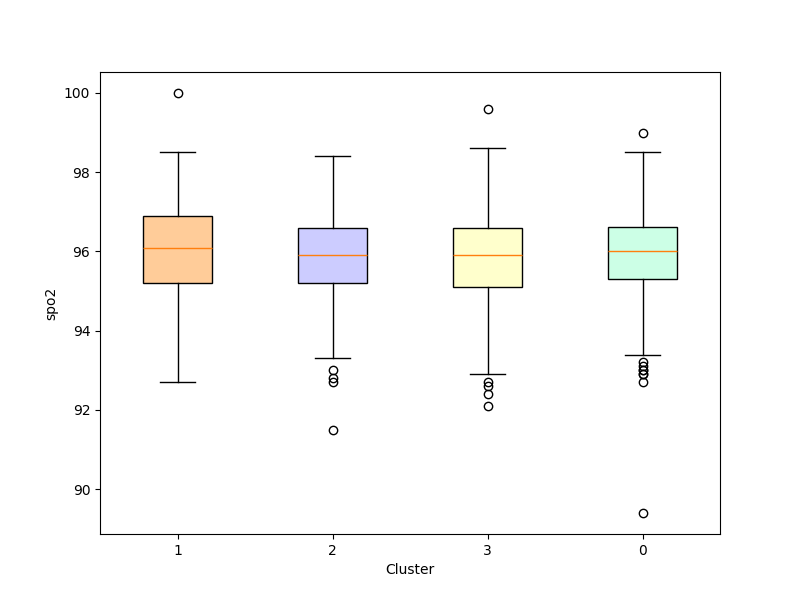
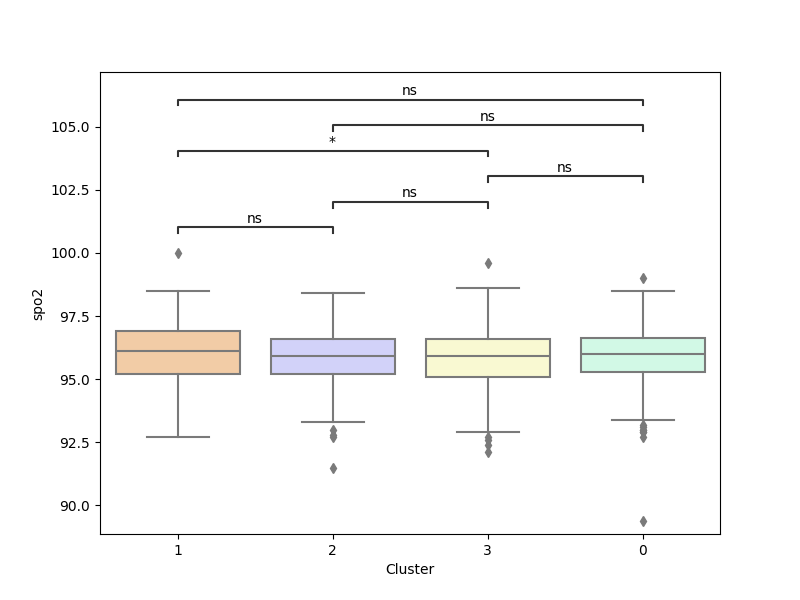
statistics on numerical labeling features visualizations

diff --git a/clustering/clustering_visualization.py b/clustering/clustering_visualization.py
@@ -2,21 +2,24 @@
 This file contains the code for visualizing the clustering results.
 """
 
-
+import warnings
 import pandas as pd
+import seaborn as sns
 import matplotlib.pyplot as plt
-
+from statannotations.Annotator import Annotator
+warnings.filterwarnings('ignore')
 
 """
 This function creates and saves locally a boxplot.
 """
 def boxplot(data, col, where):
-    boxplot_data = [data[data['cluster'] == cluster][col] for cluster in data['cluster'].unique()]
+    data['cluster'] = data['cluster'].astype(str)
     plt.figure(figsize=(8, 6))
-    colors = ['#ffcc99', '#ccccff', '#ffffcc', '#ccffe6', '#b3e6ff']
-    boxplot_elements = plt.boxplot(boxplot_data, patch_artist=True, labels=data['cluster'].unique())
-    for patch, color in zip(boxplot_elements['boxes'], colors):
-        patch.set_facecolor(color)
+    ax = sns.boxplot(x='cluster', y=col, data=data, palette=['#ffcc99', '#ccccff', '#ffffcc', '#ccffe6', '#b3e6ff'])
+    pairs = [(str(i), str(j)) for i in data['cluster'].unique() for j in data['cluster'].unique() if i < j]
+    annotator = Annotator(ax, pairs, data=data, x='cluster', y=col)
+    annotator.configure(test='Mann-Whitney', text_format='star', loc='inside', verbose=2)
+    annotator.apply_and_annotate()
     plt.xlabel('Cluster')
     plt.ylabel(col)
     filename = '../images/' + where + '/kmeans_' + col + '.png'
@@ -27,13 +30,17 @@ def boxplot(data, col, where):
 This function creates and saves locally a bar plot.
 """
 def bar_plot(data, col, where):
-    category_counts = data.groupby(['cluster', col]).size().unstack(fill_value=0)
+    data['cluster'] = data['cluster'].astype(str)
     plt.figure(figsize=(8, 6))
     if col == 'mood':
-        colors = ['#ffcc99', '#ccccff', '#ffffcc', '#ccffe6', '#b3e6ff', '#ff704d', '#ffccff', '#80ffaa', '#6666ff', '#c1c1a4', '#ffb3ff', '#99ffeb', '#dfbf9f']
+        ax = sns.barplot(x='cluster', y=col, data=data, palette=['#ffcc99', '#ccccff', '#ffffcc', '#ccffe6', '#b3e6ff', '#ff704d',
+                                                                 '#ffccff', '#80ffaa', '#6666ff', '#c1c1a4', '#ffb3ff', '#99ffeb', '#dfbf9f'])
     else:
-        colors = ['#ffcc99', '#ccccff', '#ffffcc', '#ccffe6', '#b3e6ff']
-    category_counts.plot(kind='bar', color=colors, figsize=(8, 6))
+        ax = sns.barplot(x='cluster', y=col, data=data, palette=['#ffcc99', '#ccccff', '#ffffcc', '#ccffe6', '#b3e6ff'])
+    pairs = [(str(i), str(j)) for i in data['cluster'].unique() for j in data['cluster'].unique() if i < j]
+    annotator = Annotator(ax, pairs, data=data, x='cluster', y=col)
+    annotator.configure(test='Mann-Whitney', text_format='star', loc='inside', verbose=2)
+    annotator.apply_and_annotate()
     plt.xlabel('Cluster')
     plt.ylabel(col)
     filename = '../images/' + where + '/kmeans_' + col + '.png'
@@ -56,23 +63,23 @@ def visualize_labeling(data):
     cols = list(data.columns[39:])
     for col in cols:
         # keep only the data that does not contain NaN values in this specific feature
-        boxplot_data = data.dropna(subset=[col])
-        print("Feature", col, "has", len(boxplot_data), "non-nan values")
+        visualize_data = data.dropna(subset=[col])
+        print("Feature", col, "has", len(visualize_data), "non-nan values")
         try:
             # for the arithmetic features: visualize the clean data with a boxplot
-            boxplot(boxplot_data, col, 'clustering_labeling')
+            boxplot(visualize_data, col, 'clustering_labeling')
         except Exception:
             try:
                 # for the categorical features: visualize the clean data with a bar plot
-                bar_plot(boxplot_data, col, 'clustering_labeling')
+                bar_plot(visualize_data, col, 'clustering_labeling')
             except Exception as e2:
                 print("Feature", col, "could not be visualized, because", e2)
 
 
 if __name__ == '__main__':
-    # visualize the training features along with the HDBSCAN results
+    # visualize the training features along with the clustering results
     data = pd.read_pickle('../data/labeling_visualizations/kmeans_labeling_processed.pkl')
-    visualize_training(data)
+    # visualize_training(data)
 
-    # visualize the labeling features along with the HDBSCAN results
+    # visualize the labeling features along with the clustering results
     visualize_labeling(data)
